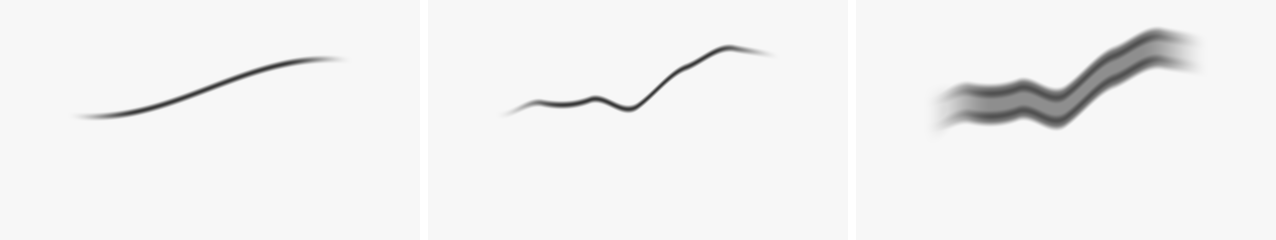
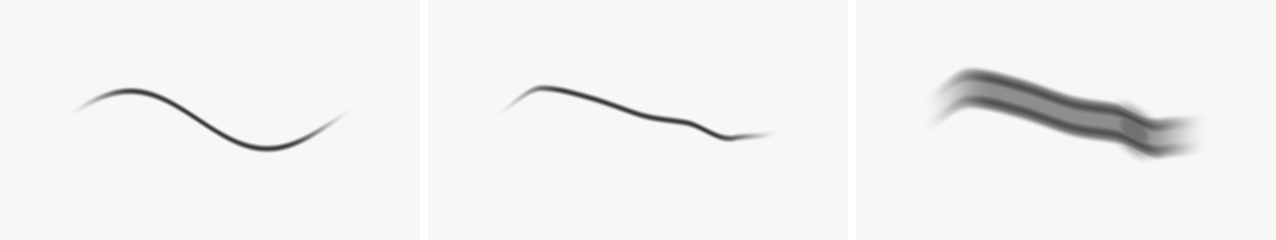
Floaters write-up: code comments, clearer spring text, new still, strand render script

diff --git a/Farsight_Floaters.html b/Farsight_Floaters.html
@@ -67,7 +67,7 @@
 <dd>Unity URP, HLSL, C#</dd>
 </dl></header><article class="project-copy project-writeup">
 
-<figure class="project-figure"><img src="assets/img/farsight/floaters/floaters-lag.webp" alt="Eye floaters lagging behind quick head turns against the sky" class="project-figure-image" decoding="async"><figcaption>Quick head turns. The floaters swing behind and drift back.</figcaption></figure>
+<figure class="project-figure"><img src="assets/img/farsight/floaters/floaters-lag.webp" alt="Eye floaters lagging behind quick head turns against the sky" class="project-figure-image" decoding="async"><figcaption>Quick head turns. The floaters swing behind and drift back. Floaters turned up so they're visible at this size.</figcaption></figure>
 
 <h3 class="project-section-title">The goal</h3>
 <p>Farsight is about bad eyesight, so we gave your eyes floaters, those little see-through squiggles you notice when you look at a bright sky.</p>
@@ -77,24 +77,32 @@
 <p>They're drawn in the same screen pass as the <a href="Farsight_Glasses.html">rain on your glasses</a>. The shader draws them, and a small C# spring moves them around as you look about.</p>
 
 <h3 class="project-section-title">1. Drawing a strand</h3>
-<p>Each floater starts as a sine wave. We add a second, faster wave and some noise so it looks less perfect, then draw it as a see-through tube with darker edges and a few little clumps along it.</p>
+<p>Each floater starts as a sine wave. We add a second, faster wave and some noise so it looks less perfect, then draw it as a see-through tube with darker edges and the odd clump along it.</p>
 <figure class="project-figure"><img src="assets/img/farsight/floaters/build-steps.png" alt="One floater strand built in three steps" class="project-figure-image" loading="lazy" decoding="async"><figcaption>A plain sine, then with noise, then drawn as a tube.</figcaption></figure>
-<pre><code>float wave = sin(q.x * (1.9 + k * 0.7) + k * 1.7 + t * 0.03) * 0.2
+<pre><code>// q.x: position along the strand, k: which floater, t: time
+float wave = sin(q.x * (1.9 + k * 0.7) + k * 1.7 + t * 0.03) * 0.2
            + sin(q.x * 4.1 + k * 3.3) * 0.08
            + (vnoise(float2(q.x * 3.0, k * 7.0)) - 0.5) * 0.25;</code></pre>
 
 <h3 class="project-section-title">2. Only against bright areas</h3>
 <p>How visible they are depends on how bright the scene is behind them. Against the sky you can see them clearly, and in darker spots they pretty much disappear, same as real ones.</p>
-<figure class="project-figure"><img src="assets/img/farsight/floaters/floaters-still.jpg" alt="Floaters against an overcast sky, in game" class="project-figure-image" loading="lazy" decoding="async"></figure>
+<figure class="project-figure"><img src="assets/img/farsight/floaters/floaters-still.jpg" alt="Floaters against an overcast sky, fading out at the edge of a dark building, in game" class="project-figure-image" loading="lazy" decoding="async"><figcaption>In game. The lower strand fades out where it reaches the dark building.</figcaption></figure>
+<pre><code>// bright: 0 in dark areas, 1 against the sky
+col *= 1 - shade * strength * bright;</code></pre>
 
 <h3 class="project-section-title">3. Following your eye</h3>
-<p>They shouldn't be stuck to the camera. When you turn your head they swing the other way on a spring, then settle back and slowly sink. That lag is what makes them feel like they're actually floating in there.</p>
-<pre><code>floaterVel += new Vector2(-yaw, -pitch) * floaterLag * 6f;
+<p>They shouldn't be stuck to the screen. When you turn your head they swing the other way on a spring, then ease back (the clip at the top shows this). Each strand swings a different amount, so they separate as they move. That lag is what makes them feel like they're floating in there.</p>
+<pre><code>// kick opposite to this frame's head turn
+floaterVel += new Vector2(-yaw, -pitch) * floaterLag * 6f;
+// pull back to centre, slightly low
 floaterVel += (-floaterPos * 1.2f + Vector2.down * 0.01f) * dt;
+// damping, same at any frame rate
 floaterVel *= Mathf.Exp(-dt * 2.2f);
+// offset in screen heights
 floaterPos += floaterVel * dt;</code></pre>
+<p>The damping sits right where the spring stops bouncing, so they glide back without wobbling.</p>
 
-<p>The footage is from the game, with the floaters turned up from 0.12 to 0.35 so you can see them at this size. The strand images were rendered with a Python port of the shader.</p>
+<p>The footage is from the game, with the floater strength turned up from 0.12 to 0.35 so you can see them at this size. The strand image was rendered with a Python port of the shader.</p>
 
 </article><nav class="project-pagination" aria-label="Project navigation"><a href="Farsight_Glasses.html" class="project-pagination-link project-pagination-link--previous"><span class="project-pagination-label">Previous write-up</span><strong>Rain on Glasses Shader</strong></a><a href="Farsight_WatchingPhoto.html" class="project-pagination-link project-pagination-link--next"><span class="project-pagination-label">Next write-up</span><strong>Watching Eyes Shader</strong></a></nav>
 </div></section></main><!-- End #main -->

diff --git a/scripts/floaters.py b/scripts/floaters.py
@@ -1,0 +1,42 @@
+# Port of the floater block in GlassesLens.shader. Renders build-steps.png for the floaters write-up.
+# Usage: python3 floaters.py <output_dir>
+import numpy as np, sys
+from PIL import Image
+O=sys.argv[1]
+def frac(x): return x-np.floor(x)
+def ss(a,b,x): t=np.clip((x-a)/(b-a),0,1); return t*t*(3-2*t)
+def hash21(p):
+    p=frac(p*np.array([123.34,456.21])); d=(p*(p+45.32)).sum(-1,keepdims=True); p=p+d; return frac(p[...,0]*p[...,1])
+def vnoise(p):
+    i=np.floor(p); f=frac(p); f=f*f*(3-2*f)
+    a=hash21(i); b=hash21(i+[1,0]); c=hash21(i+[0,1]); d=hash21(i+[1,1])
+    return (a+(b-a)*f[...,0])+((c+(d-c)*f[...,0])-(a+(b-a)*f[...,0]))*f[...,1]
+def strand(p,k,off,t,parts=("wave","noise","tube","clumps")):
+    fk=float(k)
+    c=np.array([-0.28+fk*0.3,0.12-fk*0.13])+off*(1+0.35*fk)+np.array([np.sin(t*0.05+fk*2.1),np.cos(t*0.04+fk)])*0.02
+    ln=0.09+0.04*fk; q=(p-c)/ln
+    wave=np.sin(q[...,0]*(1.9+fk*0.7)+fk*1.7+t*0.03)*0.2
+    if "wave2" in parts or "noise" in parts: wave=wave+np.sin(q[...,0]*4.1+fk*3.3)*0.08
+    if "noise" in parts: wave=wave+(vnoise(np.stack([q[...,0]*3.0,np.full(q.shape[:-1],fk*7.0)],-1))-0.5)*0.25
+    d=np.abs(q[...,1]-wave); ends=ss(1.0,0.5,np.abs(q[...,0]))
+    if "tube" in parts:
+        body=ss(0.16,0.05,d); edges=ss(0.16,0.11,d)*ss(0.03,0.09,d); s=(body*0.55+edges*0.45)*ends
+    else:
+        s=ss(0.035,0.0,d)*ends
+    if "clumps" in parts:
+        cl=ss(0.22,0.06,np.linalg.norm(np.stack([(frac(q[...,0]*1.6+fk*0.37)-0.5)*0.6,d],-1),axis=-1))
+        s=np.maximum(s,cl*ends*(hash21(np.stack([np.floor(q[...,0]*1.6+fk*0.37)+fk]*2,-1))>=0.4)*0.7)
+    return s
+def grid(W,H):
+    asp=W/H; ys,xs=np.mgrid[0:H,0:W]; return np.stack([((xs+.5)/W-.5)*asp,(1-(ys+.5)/H)-.5],-1)
+def save(a,n): Image.fromarray(np.uint8(np.clip(a,0,1)*255)).save(f"{O}/{n}")
+# build-up, one strand, zoomed: sine, + second wave and noise, tube (+ clumps)
+# K = which of the shader's three strands to draw. Strand 2 is used because it has a clump
+# in its fully opaque middle; strand 0's only clump sits in the faded end and doesn't show.
+K=2; fk=float(K); ln=0.09+0.04*fk
+centre=np.array([-0.28+fk*0.3,0.12-fk*0.13])+np.array([np.sin(fk*2.1),np.cos(fk)])*0.02
+W,H=420,240; p=grid(W,H)*(0.15*ln/0.09)+centre
+steps=[("wave",),("wave","noise"),("wave","noise","tube","clumps")]
+tiles=[np.ones((H,W,3))*0.97-strand(p,K,np.zeros(2),0.0,st)[...,None]*0.75 for st in steps]
+gap=np.ones((H,8,3))
+save(np.concatenate([tiles[0],gap,tiles[1],gap,tiles[2]],1),"build-steps.png")
